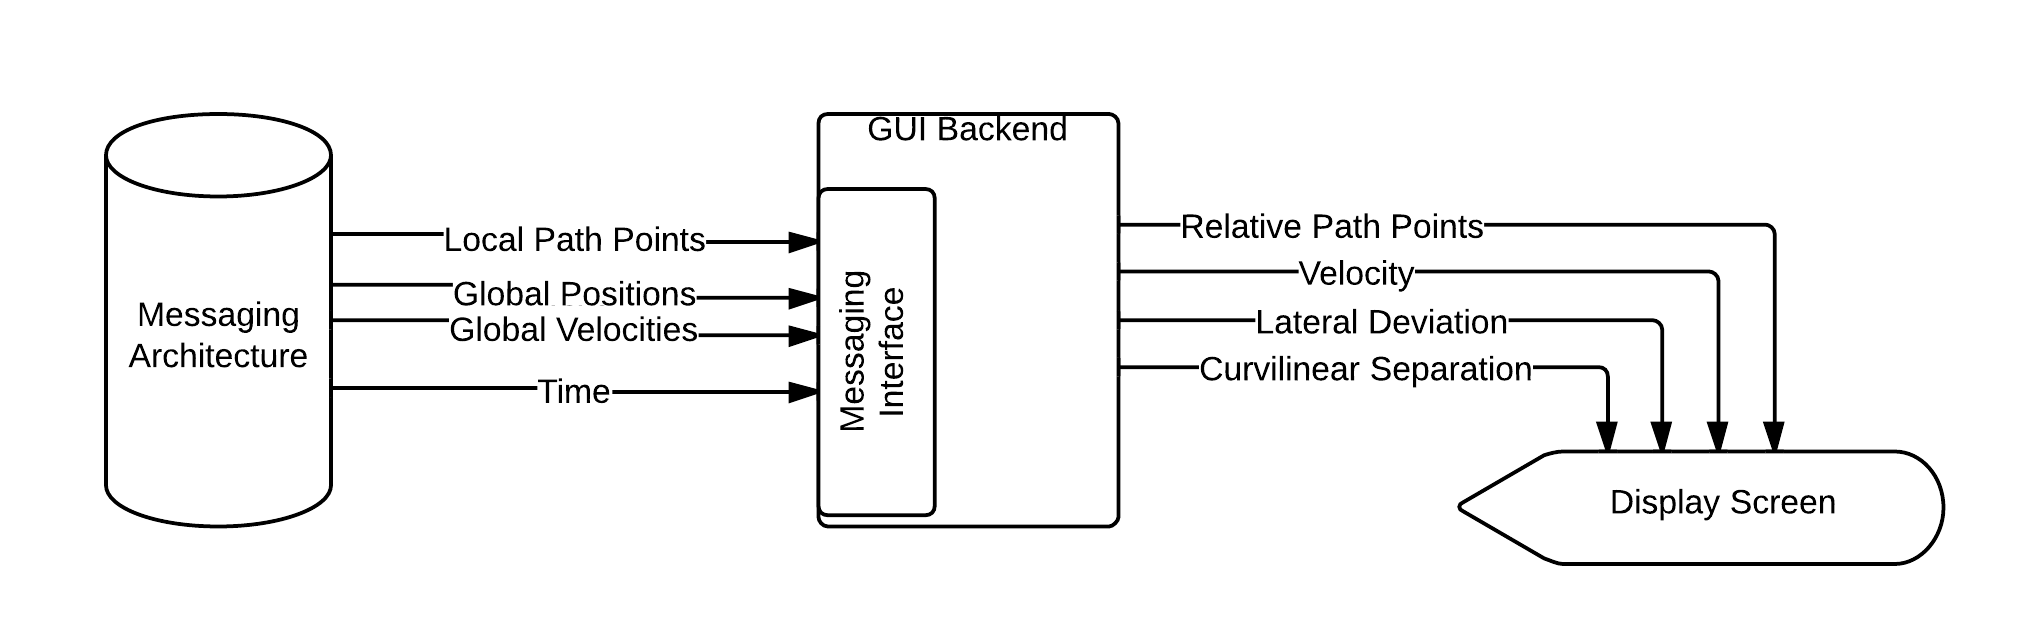
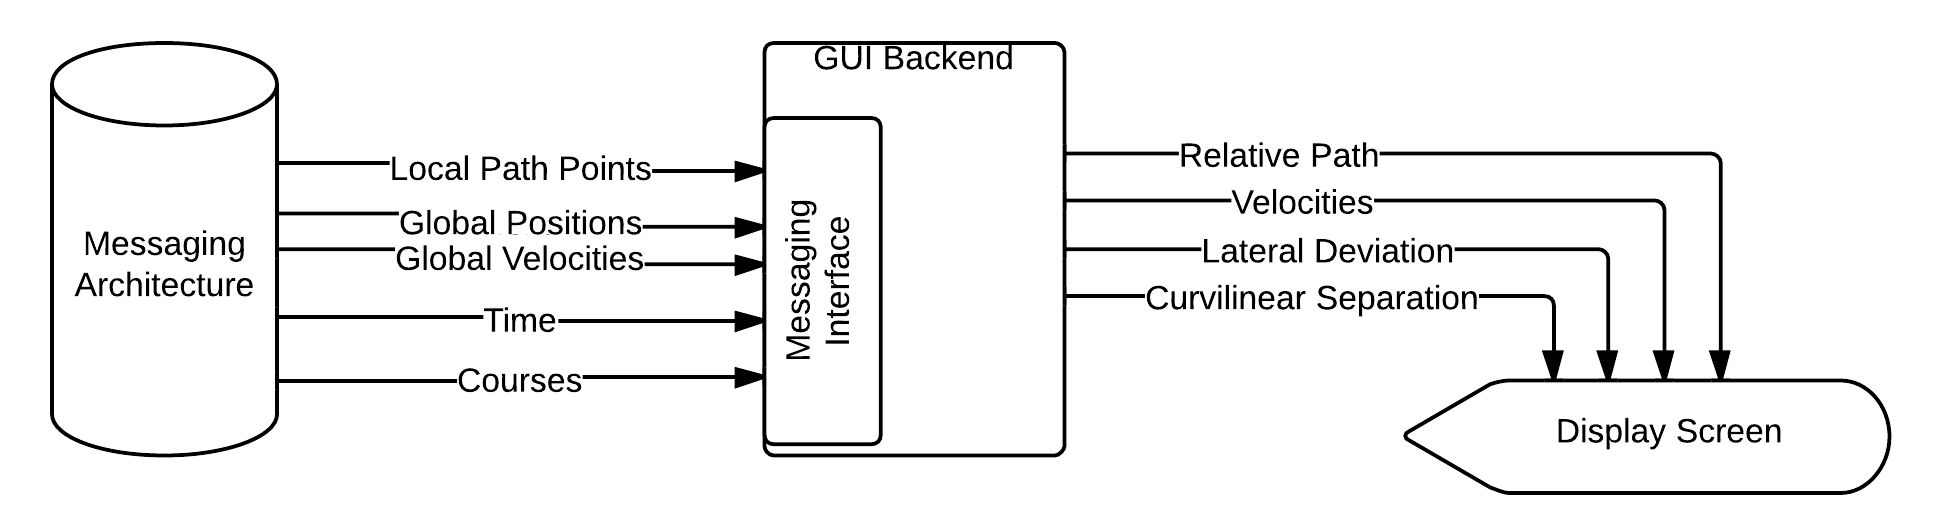
moving on

diff --git a/thesis.tex b/thesis.tex
@@ -70,7 +70,18 @@ Thank people here ...
 
 
 \style{ASME}
-\software{\LaTeX}
+\software{
+    \LaTeX,
+    Python v2.7.3,
+    MOOS v10,
+    pyMOOS,
+    Qt v4.8.3,
+    Qt4 Designer,
+    PySide v1.1.1,
+    tornado v2.3,
+    Google Earth v7.0.3.8542,
+    simplekml v1.2.1
+}
 \StylePage
 
 \tableofcontents
@@ -183,18 +194,21 @@ The accuracy of the TDCP algorithm decreases over time as errors in the position
 \section{Introduction} \label{sec:guiintro}
 
 %%%% Role of the GUI
-% enumerate the datas: pos, vel, crs, path
+Before beginning creation of the GUI, a very high level analysis of its role was performed---it was treated as a "black box" system to define inputs and outputs. Neighboring systems were consolidated into singular systems so that interfaces could be designed to robustly communicated with them. The result of this analysis is the information flow architecture depicted in Fig. \ref{fig:blackboxflow}.
+% list the output data: dst, dev magnitude and direction
+% list the input data: pos, vel, crs, path
+The inputs necessary to relay that information were then determined
 
 % Black box info flow chart
 \begin{figure}[ht] \label{fig:blackboxflow} \centering
     \includegraphics[width=6.5in]{./figs/blackbox_flowchart.png}
-    \caption{Information flow architecture in and out of the GUI}
+    \caption{High level information flow architecture in and out of the GUI}
 \end{figure}
-
-%%%% Development process
 
 %%%% Made 2 GUIs
 %% Monolith
+From the outset, a primary design goal was to minimize the amount of visual and cognitive effort required on the part of the driver for determining whether course and speed corrections are necessary, and if so, what they are. Facilities for accepting driver-input operational parameters must therefore be obscured during the driving task, yet easily accessible on the fly. In addition, a clean and minimal visual presence ensures that a passing glance is sufficient to check on distance and deviations. When following very closely, a follower will need to anticipate upcoming turns without being able to see the leader actually turn, so course information---specifically, the leader's course relative to that of the follower---will be needed.  These were the fundamentals driving the GUI development at the outset.
+
 %% Earth
 Since a significant end use case involves military convoys, feedback was sought from personnel in the Armed Forces. One primary criticism was the lack of visual stimuli by which to reconcile the screen output with what the user sees around them. To remedy this, it was suggested that satellite imagery be incorporated into the background of the information already displayed on the screen. As the directly contradicted the clean, distraction-free nature of the prototype already developed, it was determined that another version needed to be constructed following these new design principals, and that the two GUI's should be juxtaposed. In determining what software package to use to supply this, a trade study was performed and the resulting candidates were narrowed to Quantum GIS and Google Earth. The maturity, user-base and documentation on representing data with the Keyhole Markup Language (KML) ultimately made Google Earth the favored tool. As elaborated upon in Section \ref{sec:interp}, the addition of satellite imagery made the user highly aware of the update rate of each piece of information displayed spatially, necessitating the incorporation of data smoothing techniques.
 
@@ -207,11 +221,6 @@ Since a significant end use case involves military convoys, feedback was sought 
 Since the end goal is to display information that has been received rather than predict future states, the newest and second newest measurments are fewest points required to do a live interpolation. With this, a continuous-time linear interpolation of the measurment any instant between those two times is possible. By making more data points available and considering the type of data in question, more accurate interpolation may be possible. However, due to speed and efficiency, the linear interpolation is preferable in this situation. All values which are displayed in the GUI (listed in Sect. \ref{sec:guiintro}) are passed through the interpolation algorithm.
 
 %%%%% general algorithm
-%% time update
-On the first measurment update, the value and CPU time at which it arrived are stored. It is important that CPU time is recorded upon arrival rather than upon processing or sending, as the goal of this process is to obscure lags incurred during calculation or radio transmission. The end result is that the user is presented with data which changes at a consistent, even frequency, regardless of whether multiple sensors take varying amounts of time to relay data.
-
-Upon each subsequent measurment update, the previous two entities are stored moved to slots for old data $(x_0, t_0)$ and the new value is stored along with present CPU time. An interpolation object is created with the present Any interpolation thread which is still running is then stopped, and a new one spawned.
-
 %% formula
 \begin{align} \label{eq:interp}
     x(t) &= \frac{ (x_1 - x_0)(t - t_0) } { t_1 - t_0 } + x_0
@@ -221,9 +230,17 @@ The general form of the linear interpolation to obtain a value $x$ at time $t$ w
 %%%% data-type specific
 For two dimensional positions, this procedure is carried out on both the East and North coordinates. 
 %% angle
-Angles are a different matter. The course dimension contains an inherent discontinuity due to "wrapping" at the North axis. A course change of $-1^\circ$ may result in a measurment change of $-359^\circ$, which if naively interpolated would result in a complete spin over a full timestep, ending at essentially the same location as the beginning. For this reason, 
+Angles are a different matter. The course dimension contains an inherent discontinuity due to "wrapping" at the North axis. A course change of $-1^\circ$ may result in a measurment change of $-359^\circ$, which if naively interpolated would result in a complete spin over a full timestep, ending at essentially the same location as the beginning. For this reason, the angles must be occasionally be resolved (i.e., when $|x_1 - x_0| > 180^\circ$ ) by adding $360^\circ$ to the lowest value. For example, values of $(x_0, x_1) = (0.5^\circ, 359.5^\circ)$ would then become $(x_0, x_1) = (360.5^\circ, 359.5^\circ)$ .
 %% path
+For the path to be interpolated, 
+
+%% time update
+On the first measurment update, the value and CPU time at which it arrived are stored. It is important that CPU time is recorded upon arrival rather than upon processing or sending, as the goal of this process is to obscure lags incurred during calculation or radio transmission. The end result is that the user is presented with data which changes at a consistent, even frequency, regardless of whether multiple sensors take varying amounts of time to relay data.
+
+Upon each subsequent measurement update, the previous two entities are stored moved to slots for old data $(x_0, t_0)$ and the new value is stored along with present CPU time. An interpolation object representing Eq. \ref{eq:interp} is created with the present data so that between times $t_0$ and $t_1$ an input $t$ will yield the respective measurement $x$. Any interpolation thread which is still running is then stopped, and a new one spawned. This thread the iteratively calculates data between $x_0$ and $x_1$, then waits a period of time corresponding to the desired frequency, repeating until a new measurement update occurs.
+
 %%%%% transition to data dissemanation
+The effect this had upon readability and being able to intuitively interpret data was positive. Even though it was initially 
 
 %%%%%%%%%%%%%%%%%%%%
 % Data Dissemenation
@@ -277,7 +294,7 @@ The color of the leader represents a safety estimate for forward spacing at any 
 
 % stopping distance equation (mu)
 \begin{align} \label{eq:stopdist}
-    d_s &= \frac {|\bar{v}|^2} {2 \mu g}
+    d_{stop, min} &= \frac {|\bar{v}|^2} {2 \mu g}
 \end{align}
 
 This relation assumes level terrain such that gravity only impacts the normal force acting on tires, and no longitudinal effects on the vehicle. Two scenarii are used: a 'warning' state---when the present minimum stopping distance is less than that for a low-friction surface such as gravel ($\mu=0.4$)---and a 'critical' state---when the present minimum stopping distance is than that for a typical asphalt roadway($\mu=0.7$). 
@@ -286,38 +303,43 @@ This relation assumes level terrain such that gravity only impacts the normal fo
 
 %%%%%%%%%%%%%%%%%%%%%%
 % Final Design Section
-\section{Final Design}
-\label{sec:finaldes}
+\section{Final Design} \label{sec:finaldes}
+
+%%%% Monolith %%%%
+\subsection{Monolithic GUI} \label{sec:finaldes_monolith}
+
+%%%% alerts
+%% dev
+%% dst
 
 % the driver screen
-\begin{figure}[ht] \centering
+\begin{figure}[ht] \centering \label{fig:finaldesdriv_monolith}
     \includegraphics[width=6.5in]{./figs/final_design_data.png}
     \caption{Final Design --- Driver view}
-    \label{fig:finaldesdriv_monolith}
 \end{figure}
 
 %% options screen
 % There is always the option to change operational parameters, using the screen depicted in Figure \ref{fig:finaldesopts}, which are primarily the lateral deviation thresholds, following distance $\mu$ thresholds, for the monolithic and the maximum distance to display onscreen during fixed-scale mode. When the option for to always display the lead vehicle is enabled, the maximum following distance becomes the minimum value, and whenever the direct distance to the follower exceeds this, the screen is scaled to include it in the range semicircle.
 
 % the option screen
-\begin{figure}[ht] \centering
+\begin{figure}[ht] \centering \label{fig:finaldesopts}
     \includegraphics[width=6.5in]{./figs/final_design_opts.png}
     \caption{Final Design --- Setting of operational parameters }
-    \label{fig:finaldesopts}
 \end{figure}
 
-\subsection{Alerts}
-\label{sec:alerts}
+%%%% Earth %%%%
+\subsection{Google Earth GUI} \label{finaldes_earth}
 
-%%%% Deviation
-% Monolith
+%%%% alerts
 
-% Earth
+%% dev
 
-%%%% Distance
-% Monolith
+\begin{figure}[ht] \centering \label{fig:earth_dev}
+    \includegraphics[width=6.5in]{./figs/yellow_dev_no_leader_follower_centered.png}
+    \caption{Following driver being signalled in Google Earth to correct left}
+\end{figure}
 
-% Earth
+%% dst
 
 
 %%%%%%%%%%%%%%%%%%%%%%%%%%%%%%%%%%%%%%%%%%%%%%%%%%%%%%%%%%%%%%%%%%%%%%%%%%%%%%%%
@@ -328,35 +350,36 @@ This relation assumes level terrain such that gravity only impacts the normal fo
 
 %%%%%%%%%%%%%%%%%%%%%%%%
 % Hardware Setup Section
-\section{Hardware Setup}
-\label{sec:hardware}
+\section{Hardware Setup} \label{sec:hardware}
 
 All experimental data was taken using Novatel Propak v3 GPS receivers with pinwheel antennas, identical to those used in \cite{scottthesis}. All positioning computation was conducted on an Apple MacBook Pro Laptop running Ubuntu Linux 12.04.1 in a Parallels virtual machine in the rearmost vehicle. Novatel data was relayed directly from receivers in other vehicles to the positioning computer through the use of XTend $1~W,~900~MHz$ radio modems connected via RS232-USB adapters. This eliminated the need for additional computers, which was found to introduce unacceptable latency into the system. In this manner, a single central hub was able to host the MOOS database while controlling all receivers and data flow to all position algorithms for multiple vehicle testing.
 
-% \begin{figure}[ht] \centering
-%     \includegraphics[width=6.5in]{./figs/.png}
-%     \caption{Equipment used in the leading vehicle}
-%     \label{fig:hardwarelead}
-% \end{figure}
+\begin{figure}[ht] \centering \label{fig:hardwarelead}
+    \includegraphics[width=6.5in]{./figs/leader_hardware.png}
+    \caption{Equipment used in the leading vehicle}
+\end{figure}
 
-% \begin{figure}[ht] \centering
-%     \includegraphics[width=6.5in]{./figs/.png}
-%     \caption{Equipment used in the following vehicle}
-%     \label{fig:hardwarefoll}
-% \end{figure}
+% data collection
+The stream of available data may be divided into two categories: raw GPS measurements used to compute a relative path online, and the measurements coming either the receiver or DAF algorithm which is displayed on-screen. When conducting experimental trials for formal analysis, the latter is recorded in order to capture exactly what was displayed to the following driver and examine their performance. The former is excluded in order to reduce the volume of data throughput and increase computing efficiency, as following distance and lateral path deviation are derived from the relative path and follower velocity alone. 
+However, during the develop-test-refine cycle, the inverse is true; raw GPS measurements alone are recorded (again, neglecting other data for efficiency). This is then replayed to simulate online operation as algorithms are tuned.
 
+\begin{figure}[ht] \centering \label{fig:hardwarefoll}
+    \includegraphics[width=6.5in]{./figs/follower_hardware.png}
+    \caption{Equipment used in the following vehicle}
+\end{figure}
 
 
 %%%%%%%%%%%%%%%%%%%%%%%%%%%
 % What tests were performed
-\section{Testing}
-\label{sec:test}
+\section{Testing} \label{sec:test}
 
 %%%% Lane change replication
-\subsection{Lane Change Replication}
-\label{sec:lanechange}
+\subsection{Lane Change Replication} \label{sec:lanechange}
 
-In determining the usefulness of any tool, it is highly desirable to devise a test which yield concise results that are either completely positive or negative. To this end, a maneuver common in the characterization of vehicle dynamics, the lane change, was used in a situation in which the maneuver could be replicated properly or improperly.
+In determining the usefulness of any tool, it is highly desirable to devise a test which yields concise results that are either completely positive or negative. To this end, a maneuver common in the characterization of vehicle dynamics, the lane change, was used in a situation in which the maneuver could be replicated properly or improperly. 
+
+
+
 
 
 %%%%%%%%%%%%%%%%%%%%%%%%%%%%%%%%%%%%%%%%%%%%%%%%%%%%%%%%%%%%%%%%%%%%%%%%%%%%%%%%

diff --git a/outline.md b/outline.md
@@ -73,6 +73,10 @@ Honors Thesis: Important Updates
         - [figure] Depict GUI as a block with defined inputs & outputs
         - convey distance and deviation info
             - colors: reference Color state calc section below
+    - briefly discuss development process
+        - using playback of raw data:
+            - refine DRTK/TDCP at the same time as the GUI
+        - live testing used mostly to ensure proper memory usage and peripheral software/hardware setup correctly
     -  2 GUIS were made
         -  monolith
             -  follower-centric
@@ -81,21 +85,19 @@ Honors Thesis: Important Updates
             -  transition via: reason - Mike's comments
             -  mention reason for discarding QGIS as possibility
             -  reference interpolator section, was needed as a result
-    - briefly discuss development process
-        - using playback of raw data:
-            - refine DRTK/TDCP at the same time as the GUI
-        - live testing used mostly to ensure proper memory usage and peripheral software/hardware setup correctly
 - __Interpolator__
     - introductory paragraph
         - needed when using Earth, b/c choppiness @ 1 Hz limits readability of the screen
         - first tried simple synchronization to slowest data stream, magnitude of jumps still a problem
         - drawback: must induce a 1 timestep lag
-    - general algorithm
-        - time update
+    - general algorithm:
         - linear interp formula
-    - path:
-        - algorithm for resolving unequal vector lengths
-        - interp for each coordinate of each point
+        - positions
+        - angles: resolving discontinuity
+        - path:
+            - algorithm for resolving unequal vector lengths
+            - interp for each coordinate of each point
+    - time(measurement) update
     - transition to data dissemanation:
         - did interpolation between middleware and GUI-specific objects
         - designed and tested on Earth GUI, and wanted way to hook up to monolithic GUI
@@ -132,12 +134,11 @@ Honors Thesis: Important Updates
 
 ## Chap 3: Experimental Validation
 
-- __Introductory remarks__
-
 - __Hardware Setup__
     - emphasize portability
     - [photo] Leader hardware
     - [photo] follower hardware
+    - mention 2 modes of data collection
 
 - __Description of Tests for the GUI__
     - Lane change replication
